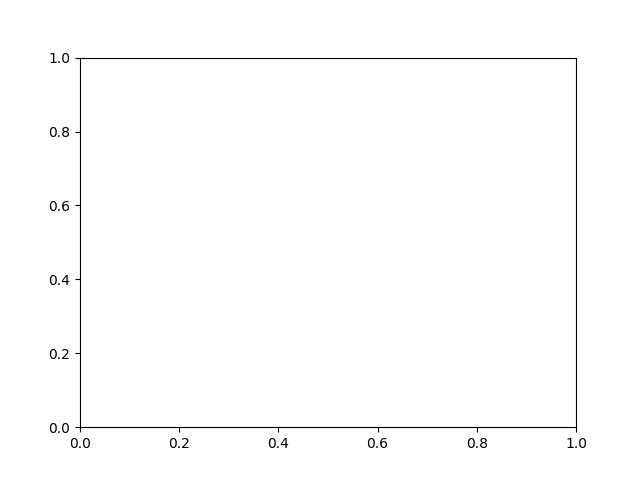
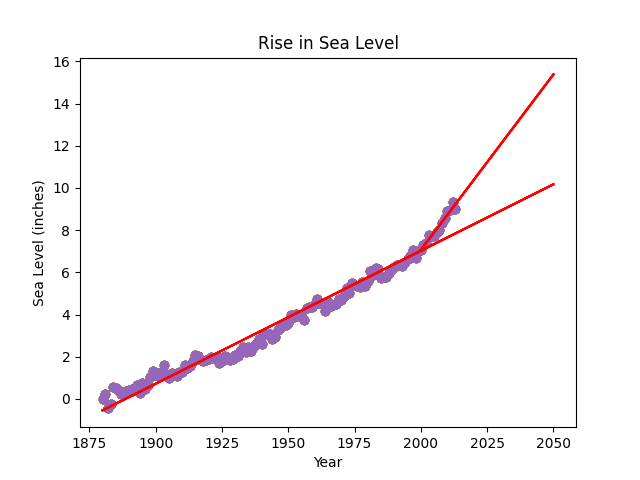
end sea level

diff --git a/Análisis de Datos con Python/Pronosticador del nivel del mar/sea_level_predictor.py b/Análisis de Datos con Python/Pronosticador del nivel del mar/sea_level_predictor.py
@@ -4,19 +4,28 @@ from scipy.stats import linregress
 
 def draw_plot():
     # Read data from file
-
+    df = pd.read_csv("epa-sea-level.csv")
 
     # Create scatter plot
-
+    plt.scatter(df["Year"], df["CSIRO Adjusted Sea Level"])
 
     # Create first line of best fit
-
+    slope, intercept, r_value, p_value, std_err = linregress(df["Year"], df["CSIRO Adjusted Sea Level"])
+    x1 = range(df["Year"].min(), 2051, 1)
+    y1 = [round(y, 7) for y in (intercept + slope * x1)]
+    plt.plot(x1, y1, "r")
 
     # Create second line of best fit
-
+    df2000 = df.loc[(df["Year"] >= 2000)]
+    slope2, intercept2, r_value2, p_value2, std_err2 = linregress(df2000["Year"], df2000["CSIRO Adjusted Sea Level"])
+    x2 = range(df2000["Year"].min(), 2051, 1)
+    y2 = [round(y, 7) for y in (intercept2 + slope2 * x2)]
+    plt.plot(x2, y2, "r")
 
     # Add labels and title
-
+    plt.title("Rise in Sea Level")
+    plt.xlabel("Year")
+    plt.ylabel("Sea Level (inches)")
     
     # Save plot and return data for testing (DO NOT MODIFY)
     plt.savefig('sea_level_plot.png')
